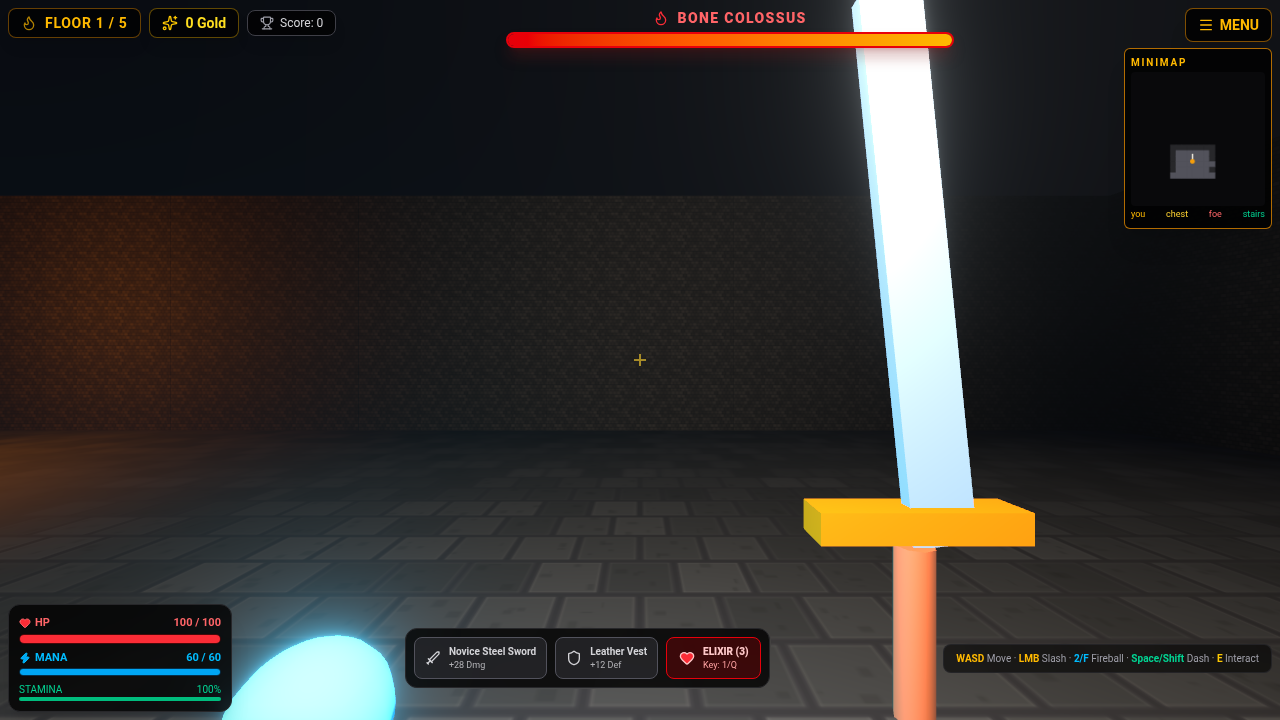
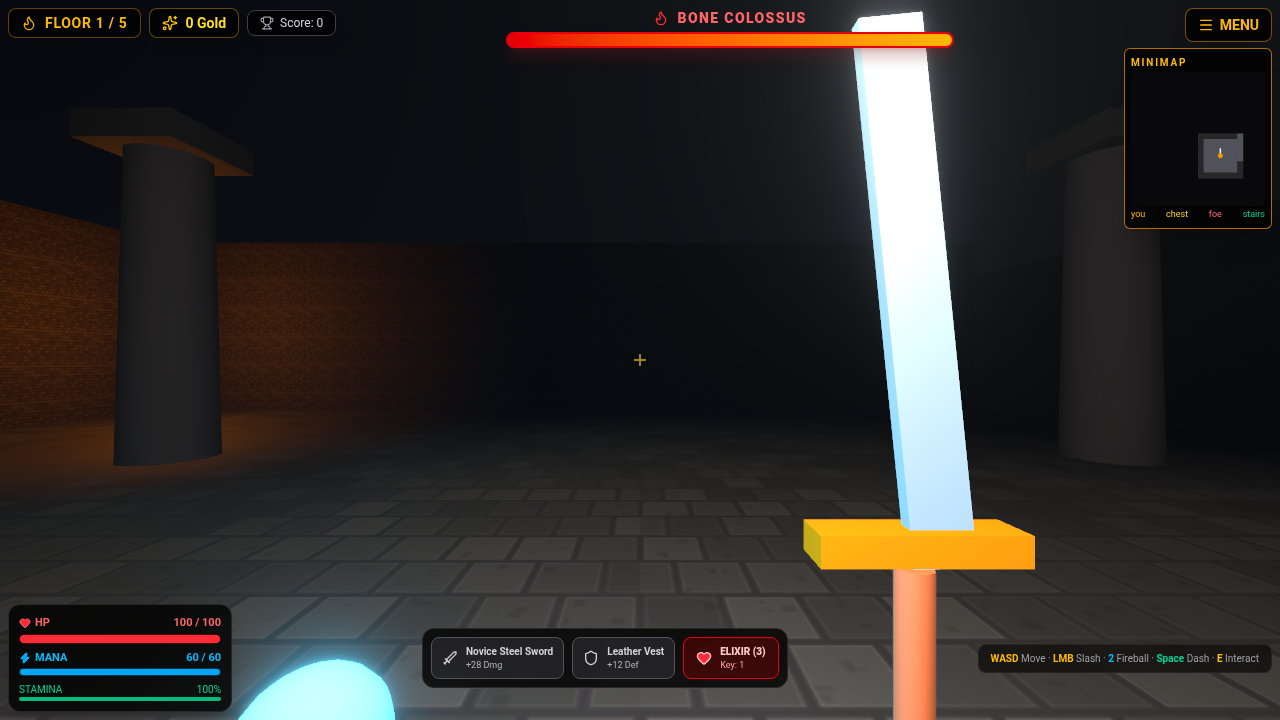
AD-24.1: show only primary bound keys in hints and elixir label

diff --git a/src/controlHints.test.ts b/src/controlHints.test.ts
@@ -8,53 +8,35 @@ import {
 } from './platform/keybindings';
 
 describe('controlHints', () => {
-  it('matches the old hard-coded labels under default bindings', () => {
+  it('shows only primary keys under default bindings', () => {
     expect(controlHints({...D})).toEqual({
       move: 'WASD',
       attack: 'LMB',
-      spell: '2/F',
-      dash: 'Space/Shift',
+      spell: '2',
+      dash: 'Space',
       interact: 'E',
-      potion: '1/Q',
+      potion: '1',
     });
   });
 
-  it('shows the rebound dash key; Shift stays a live dash alias', () => {
+  it('shows the rebound dash key only; Shift alias still works but is hidden', () => {
     const b = rebind(resetBindings(), 'dash', 'KeyK').bindings;
-    // Nothing claims ShiftLeft, so the legacy alias still triggers dash.
     expect(actionsForCode(b, 'ShiftLeft')).toEqual(['dash']);
-    expect(controlHints(b).dash).toBe('K/Shift');
+    expect(controlHints(b).dash).toBe('K');
   });
 
-  it('shows just the Shift label when dash is bound to Shift itself', () => {
-    const b = rebind(resetBindings(), 'dash', 'ShiftLeft').bindings;
-    expect(controlHints(b).dash).toBe('Shift Left');
-  });
-
-  it('drops /Shift once another action claims ShiftLeft', () => {
-    const b = rebind(resetBindings(), 'potion', 'ShiftLeft').bindings;
-    expect(actionsForCode(b, 'ShiftLeft')).toEqual(['potion']);
-    expect(controlHints(b).dash).toBe('Space');
-  });
-
-  it('shows F without a redundant /F when spell is rebound to KeyF', () => {
-    const b = rebind(resetBindings(), 'spell', 'KeyF').bindings;
-    // F still casts the spell, now as the primary binding.
+  it('never displays the F / Q aliases even while they still fire', () => {
+    const b = resetBindings();
     expect(actionsForCode(b, 'KeyF')).toEqual(['spell']);
-    expect(controlHints(b).spell).toBe('F');
+    expect(actionsForCode(b, 'KeyQ')).toEqual(['potion']);
+    const h = controlHints(b);
+    expect(h.spell).not.toMatch(/F/);
+    expect(h.potion).not.toMatch(/Q/);
   });
 
-  it('drops /F once another action claims KeyF', () => {
-    const b = rebind(resetBindings(), 'attack', 'KeyF').bindings;
-    expect(actionsForCode(b, 'KeyF')).toEqual(['attack']);
-    expect(controlHints(b).spell).toBe('2');
-  });
-
-  it('keeps /Q while the potion alias is free and drops it when claimed', () => {
-    const moved = rebind(resetBindings(), 'potion', 'Digit5').bindings;
-    expect(controlHints(moved).potion).toBe('5/Q');
-    const claimed = rebind(resetBindings(), 'attack', 'KeyQ').bindings;
-    expect(controlHints(claimed).potion).toBe('1');
+  it('elixir label follows the primary potion key', () => {
+    expect(controlHints(rebind(resetBindings(), 'potion', 'Digit5').bindings).potion).toBe('5');
+    expect(controlHints(rebind(resetBindings(), 'potion', 'KeyQ').bindings).potion).toBe('Q');
   });
 
   it('reflects rebound movement keys in order W-up, A-left, S-down, D-right', () => {

diff --git a/src/controlHints.ts b/src/controlHints.ts
@@ -1,9 +1,4 @@
-import {
-  actionsForCode,
-  keyLabel,
-  type BindableAction,
-  type KeyBindings,
-} from './platform/keybindings';
+import {keyLabel, type KeyBindings} from './platform/keybindings';
 
 /** Display strings for the desktop HUD key-hint bar and the elixir label. */
 export interface ControlHints {
@@ -15,54 +10,21 @@ export interface ControlHints {
   potion: string;
 }
 
-const isShiftCode = (code: string) => code === 'ShiftLeft' || code === 'ShiftRight';
-
 /**
- * `keyLabel(primary)` plus `/alias` while `aliasCode` still resolves to
- * `action` via actionsForCode (legacy alias or primary) and `action` isn't
- * already bound to `aliasCode` itself.
- */
-function hintWithAlias(
-  bindings: KeyBindings,
-  action: BindableAction,
-  aliasCode: string,
-  aliasLabel: string,
-): string {
-  let label = keyLabel(bindings[action]);
-  if (
-    bindings[action] !== aliasCode &&
-    actionsForCode(bindings, aliasCode).includes(action)
-  ) {
-    label += `/${aliasLabel}`;
-  }
-  return label;
-}
-
-/**
- * Derive the HUD hint labels from the current bindings. Legacy secondary keys
- * are shown only while they still trigger the action: "/Shift" while Shift
- * dashes, "/Q" while Q drinks a potion, "/F" while F casts the spell.
+ * Derive the HUD hint labels from the current bindings. Only the PRIMARY bound
+ * key is shown; legacy aliases (Shift / F / Q / Enter) keep working but are
+ * intentionally not displayed.
  */
 export function controlHints(bindings: KeyBindings): ControlHints {
   const move = (['moveUp', 'moveLeft', 'moveDown', 'moveRight'] as const)
     .map((a) => keyLabel(bindings[a]))
     .join('');
-
-  // Dash may itself be bound to a Shift key, so it checks both Shift codes.
-  let dash = keyLabel(bindings.dash);
-  if (
-    !isShiftCode(bindings.dash) &&
-    actionsForCode(bindings, 'ShiftLeft').includes('dash')
-  ) {
-    dash += '/Shift';
-  }
-
   return {
     move,
     attack: keyLabel(bindings.attack),
-    spell: hintWithAlias(bindings, 'spell', 'KeyF', 'F'),
-    dash,
+    spell: keyLabel(bindings.spell),
+    dash: keyLabel(bindings.dash),
     interact: keyLabel(bindings.interact),
-    potion: hintWithAlias(bindings, 'potion', 'KeyQ', 'Q'),
+    potion: keyLabel(bindings.potion),
   };
 }
